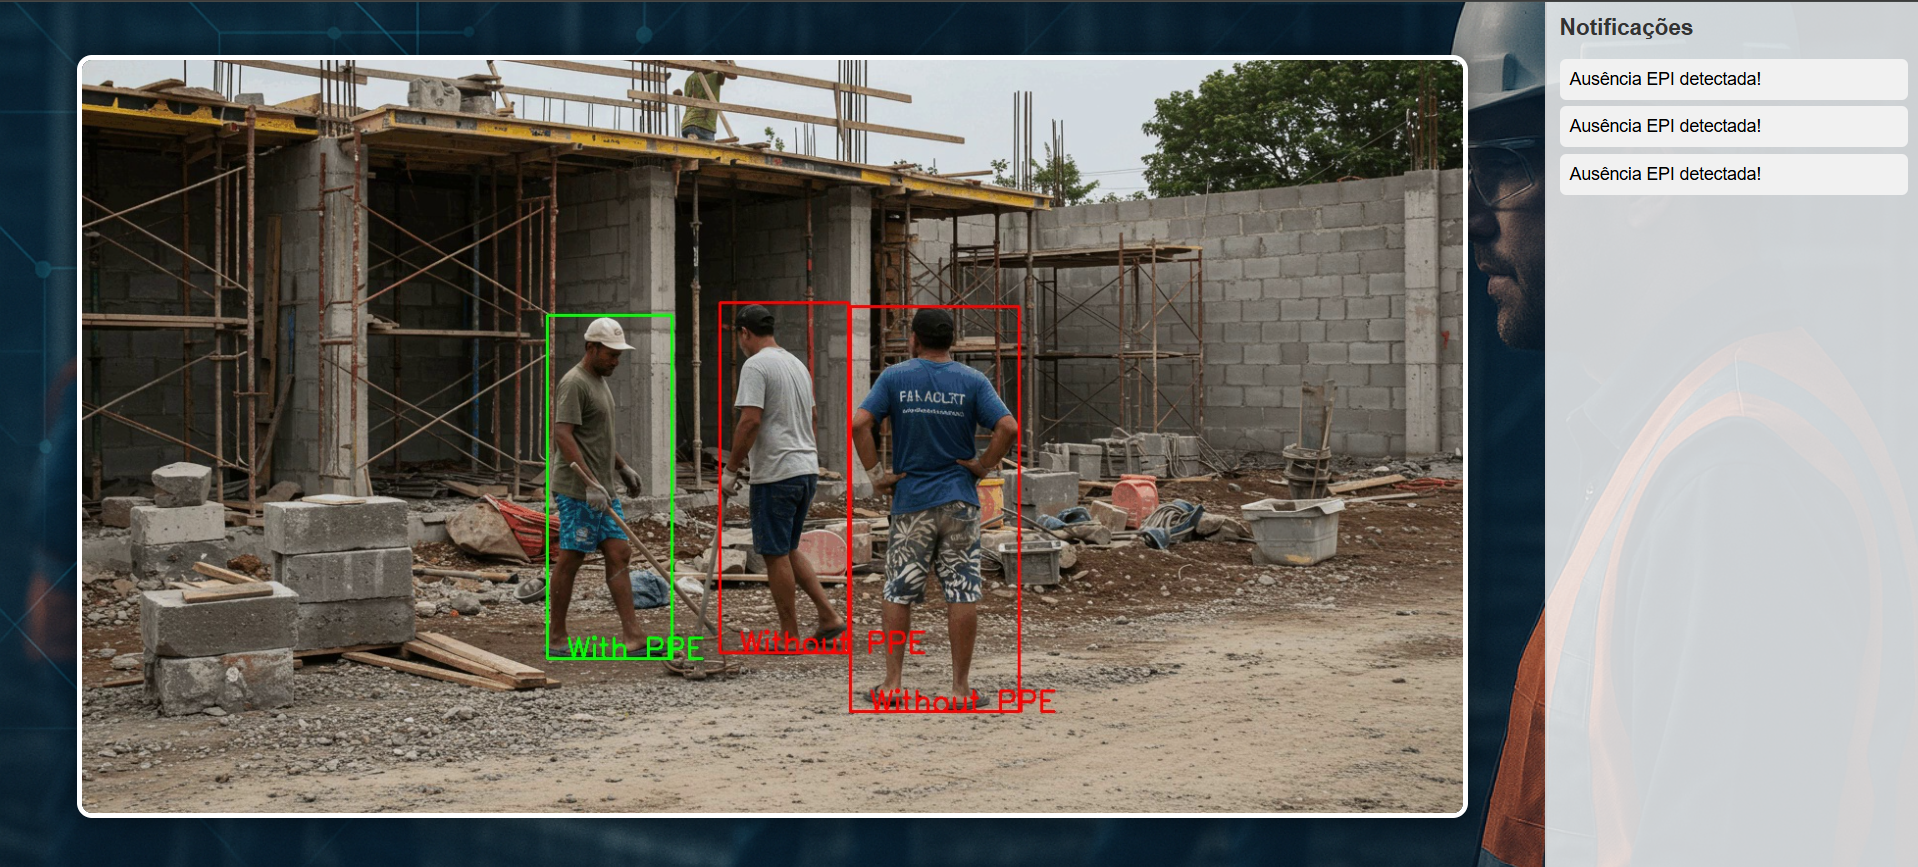
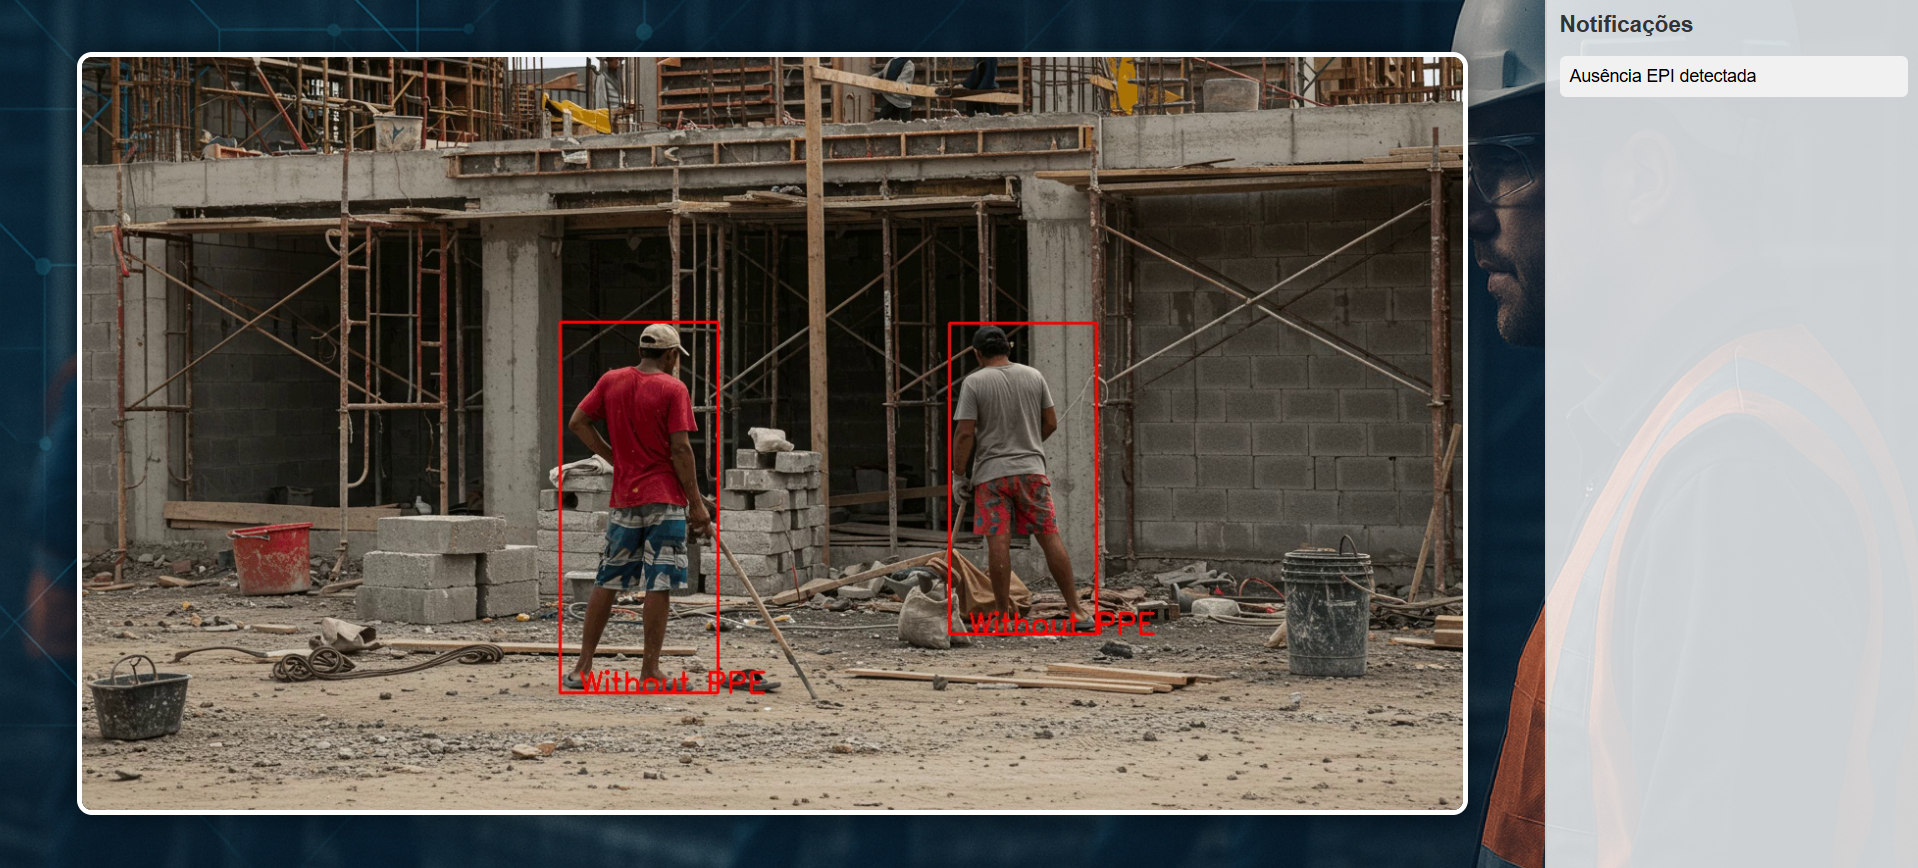
Update image test

diff --git a/services/stream.py b/services/stream.py
@@ -22,8 +22,8 @@ def generate_frames():
             video.set(cv2.CAP_PROP_POS_FRAMES, 0)
             continue
 
-        results_base = base_model(frame)
-        results_ppe = ppe_model(frame)
+        results_base = base_model(frame,conf=0.8)
+        results_ppe = ppe_model(frame,conf=0.8)
 
         annotated_frame, has_notification = detect_ppe(frame, results_base, results_ppe, base_model)
         print(has_notification)

diff --git a/api/routes.py b/api/routes.py
@@ -6,7 +6,7 @@ from flask import Response
 from services import stream
 
 routes = Blueprint('routes', __name__)
-@routes.route("/send", methods=["GET"])
+@routes.route("/send-test", methods=["GET"])
 def send_message():
     msg = request.args.get("msg", "Hello from the Flask server!")
     asyncio.run(server.broadcast_to_all(msg))
